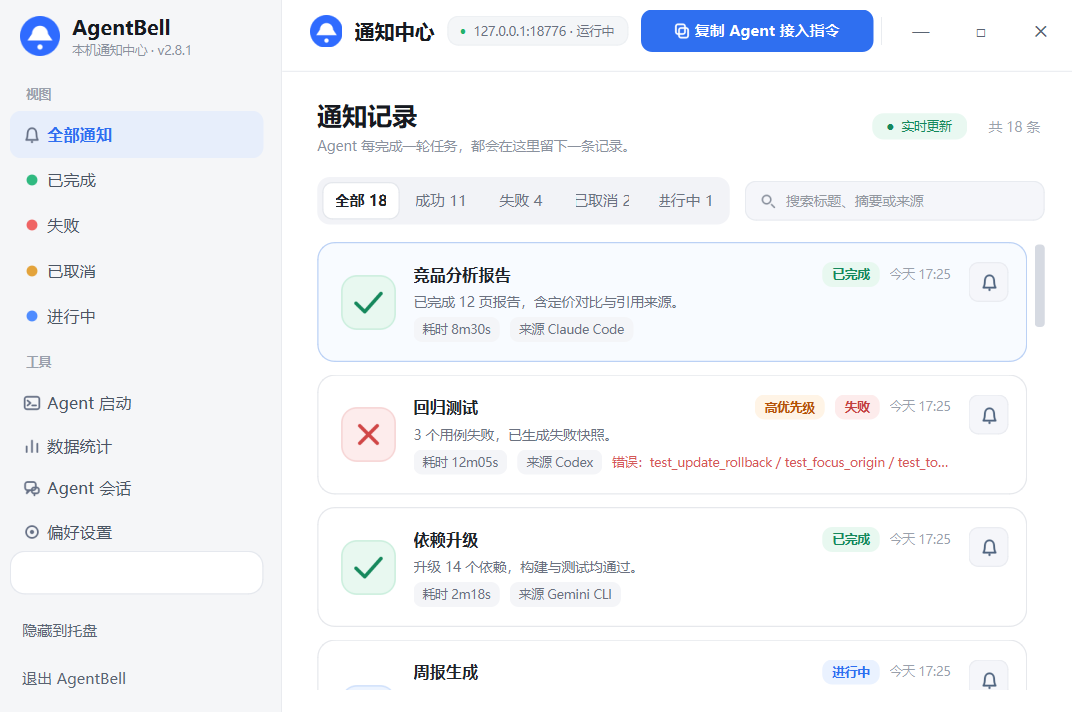
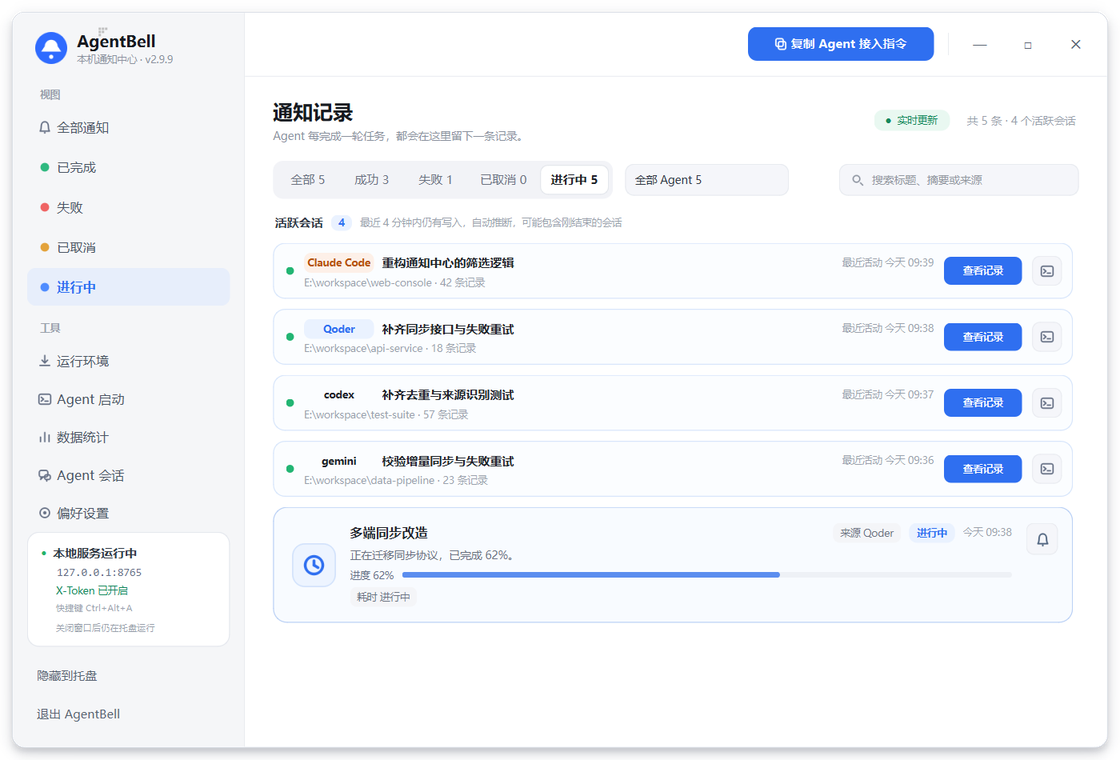
docs: 更新 README 的 2.9.9 截图与最近更新

diff --git a/README.en.md b/README.en.md
@@ -31,9 +31,16 @@ AgentBell does one thing well: **tell you the moment a round ends, and let you g
 - **Local first**: loopback-only HTTP, on-device SQLite history, read-only session parsing, no cloud.
 - **Stay small**: no agent orchestration, no workflow changes, no web UI. It waits in the tray and rings when it should.
 
+## Recent updates
+
+- **v2.9.9**: Running now auto-collects recently active agent sessions as read-only cards showing agent, project, last activity, and record count; they follow source filters and search.
+- **v2.9.8**: The agent-source filter stacks with status and search; program updates can check for new versions about 9 seconds after launch.
+- **v2.9.7**: **Back to terminal** now falls back to attaching the input queue and `SwitchToThisWindow` when Windows foreground lock refuses a plain raise, so keyboard focus actually lands.
+- **v2.9.5–2.9.6**: Fixed a ~10-second freeze when switching status filters; missing `origin` / `source` is now resolved by tracing the local connection to the sender process.
+
 ## Screenshots
 
-> Screenshots use a separate debug port (`18776`). The default production port is `127.0.0.1:8765`.
+> Screenshots use demo data. The default port is `127.0.0.1:8765` and can be changed in Preferences.
 
 | Notification center | Statistics |
 | --- | --- |
@@ -57,9 +64,9 @@ AgentBell does one thing well: **tell you the moment a round ends, and let you g
 4. If SmartScreen warns about an unknown publisher, choose **More info → Run anyway**. The build is not code-signed.
 5. Closing the window hides it to the tray. Use the tray menu or **退出 AgentBell** in the sidebar to quit.
 
-The release also includes a versioned `AgentBell-20.exe` and `SHA256SUMS.txt`. The updater only consumes the stable `AgentBell.exe` asset, so do not rename it.
+The release ships `AgentBell.exe` and `SHA256SUMS.txt`. The updater only uses `AgentBell.exe`, so do not rename it. A build-numbered `AgentBell-*.exe` is a byte-identical copy; downloading `AgentBell.exe` is enough.
 
-**Enable self-update**: packaged builds ship with `1wu-davy-2/AgentBell` filled in and the startup check enabled. AgentBell checks Releases about 9 seconds after launch; the tray menu and the Agent launcher page can also trigger a manual check. Packaged builds download, verify, back up, replace, and restart automatically after exit. Source mode only downloads the installer and never replaces the running Python process. Change the repository under **Preferences → General → Program update**.
+**Enable self-update**: In **Preferences → General → Program update**, enter `1wu-davy-2/AgentBell` and enable the startup check. AgentBell checks Releases about 9 seconds after launch; the tray menu and the Agent launcher page can also trigger a manual check. Packaged builds download, verify, back up, replace, and restart automatically after exit. Source mode only downloads the installer and never replaces the running Python process. Change the repository in the same place.
 
 ### From source
 
